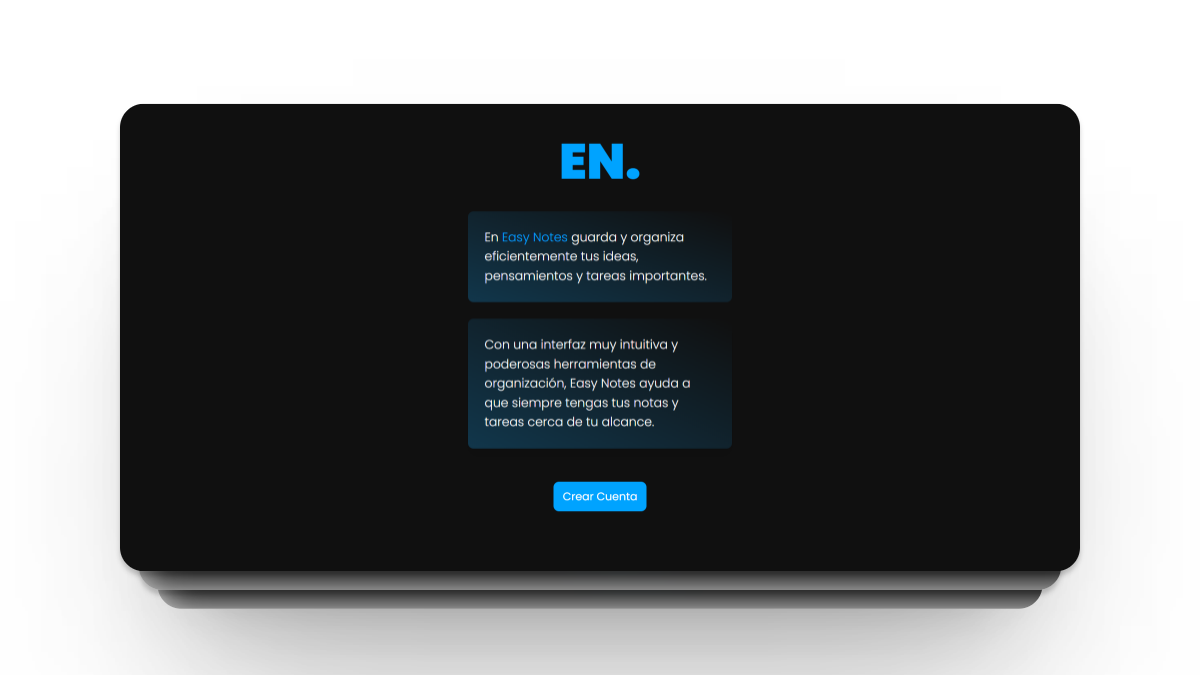
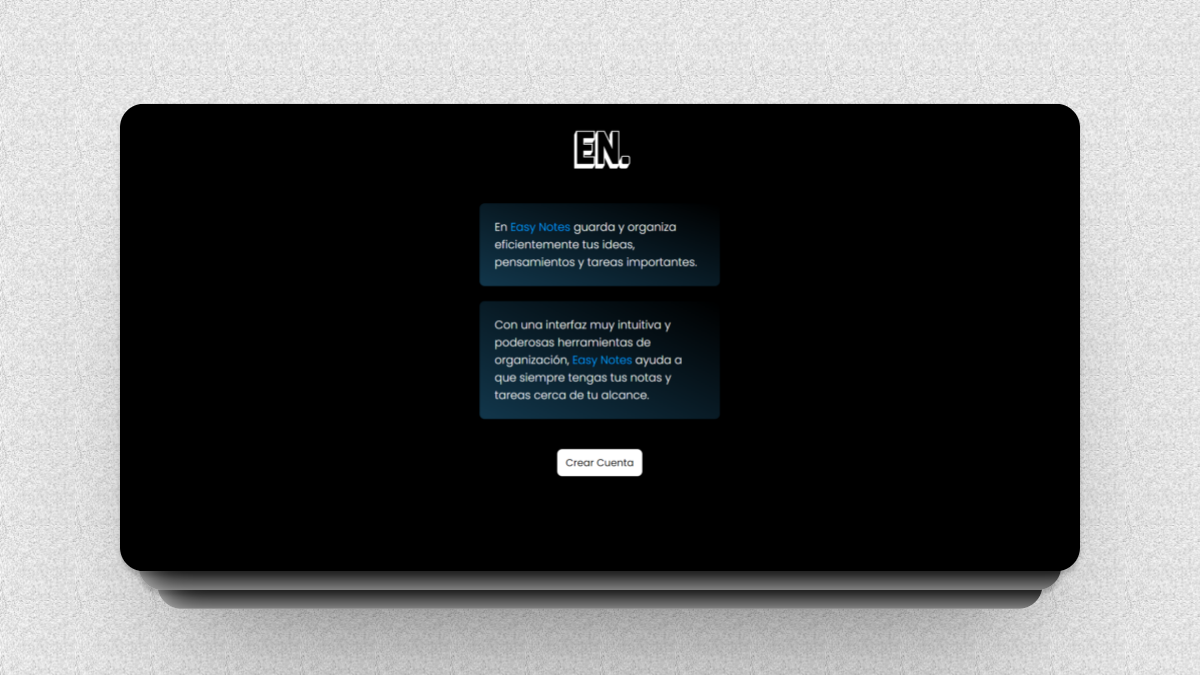
linkeo a easy-notes y cambio de imagen

Changed region(s): [[0.0, 0.0, 1.0, 1.0], [0.37, 0.3111, 0.6167, 0.7778], [0.4625, 0.1867, 0.555, 0.28]]

diff --git a/src/components/Portfolio.jsx b/src/components/Portfolio.jsx
@@ -17,13 +17,13 @@ const Portfolio = () => {
                     </Reveal>
                     <Reveal>
                         <div className="flex flex-row items-center hover:text-accent duration-300 cursor-pointer">
-                            <a href="https://birdie-golfshop.vercel.app/" className="">Ir al sitio</a>
+                            <a href="https://birdie-golfshop.vercel.app/" target='_blank' className="">Ir al sitio</a>
                             <HiArrowNarrowRight className="mx-3 text-2xl" />
                         </div>
                     </Reveal>
                     <Reveal>
                         <div className="flex flex-row items-center hover:text-accent duration-300 cursor-pointer">
-                            <a href="https://github.com/solanodz/birdie-golfshop.git" className="">Ir al repositorio</a>
+                            <a href="https://github.com/solanodz/birdie-golfshop.git" target='_blank' className="">Ir al repositorio</a>
                             <HiArrowNarrowRight className="mx-3 text-2xl" />
                         </div>
                     </Reveal>
@@ -31,7 +31,7 @@ const Portfolio = () => {
                 </div>
                 <Reveal>
                     <div className="hover:rotate-6 hover:origin-bottom-right duration-300 cursor-pointer" >
-                        <a href="https://birdie-golfshop.vercel.app/">
+                        <a href="https://birdie-golfshop.vercel.app/" target='_blank'>
                             <img src={birdieSinFondo} alt="Birdie Golfshop" className="w-fit" />
                         </a>
                     </div>
@@ -47,20 +47,20 @@ const Portfolio = () => {
                     </Reveal>
                     <Reveal>
                         <div className="flex flex-row items-center hover:text-accent duration-300 cursor-pointer">
-                            <a href="https://sz-dev-to-do-app.vercel.app/" className="">Ir al sitio</a>
+                            <a href="https://easy-notes-react.vercel.app/" target='_blank' className="">Ir al sitio</a>
                             <HiArrowNarrowRight className="mx-3 text-2xl" />
                         </div>
                     </Reveal>
                     <Reveal>
                         <div className="flex flex-row items-center hover:text-accent duration-300 cursor-pointer">
-                            <a href="https://github.com/solanodz/to-do-app.git" className="">Ir al repositorio</a>
+                            <a href="https://github.com/solanodz/easy-notes-react.git/" target='_blank' className="">Ir al repositorio</a>
                             <HiArrowNarrowRight className="mx-3 text-2xl" />
                         </div>
                     </Reveal>
                 </div>
                 <Reveal>
                     <div className="hover:rotate-6 hover:origin-bottom-right duration-300 cursor-pointer" >
-                        <a href="https://sz-dev-to-do-app.vercel.app/">
+                        <a href="https://easy-notes-react.vercel.app/" target='_blank' >
                             <img src={easyNotesSinFondo} alt="Easy Notes" className="w-fit border-3 " />
                         </a>
                     </div>
